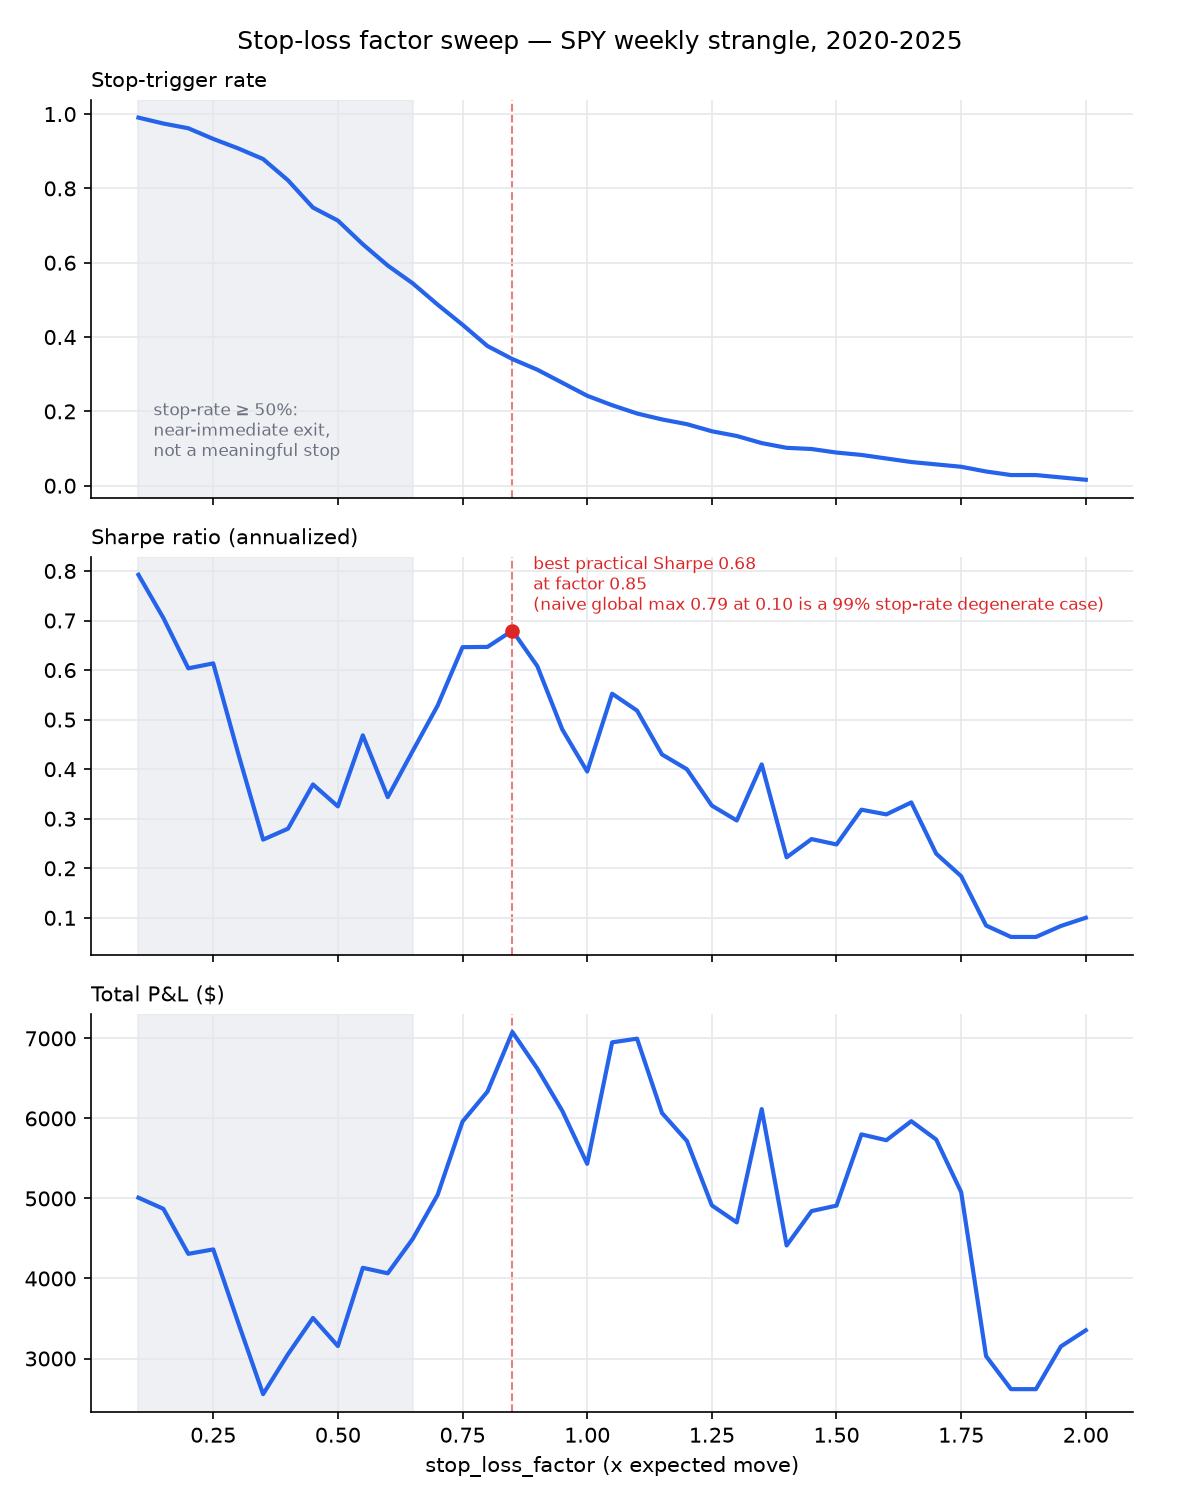
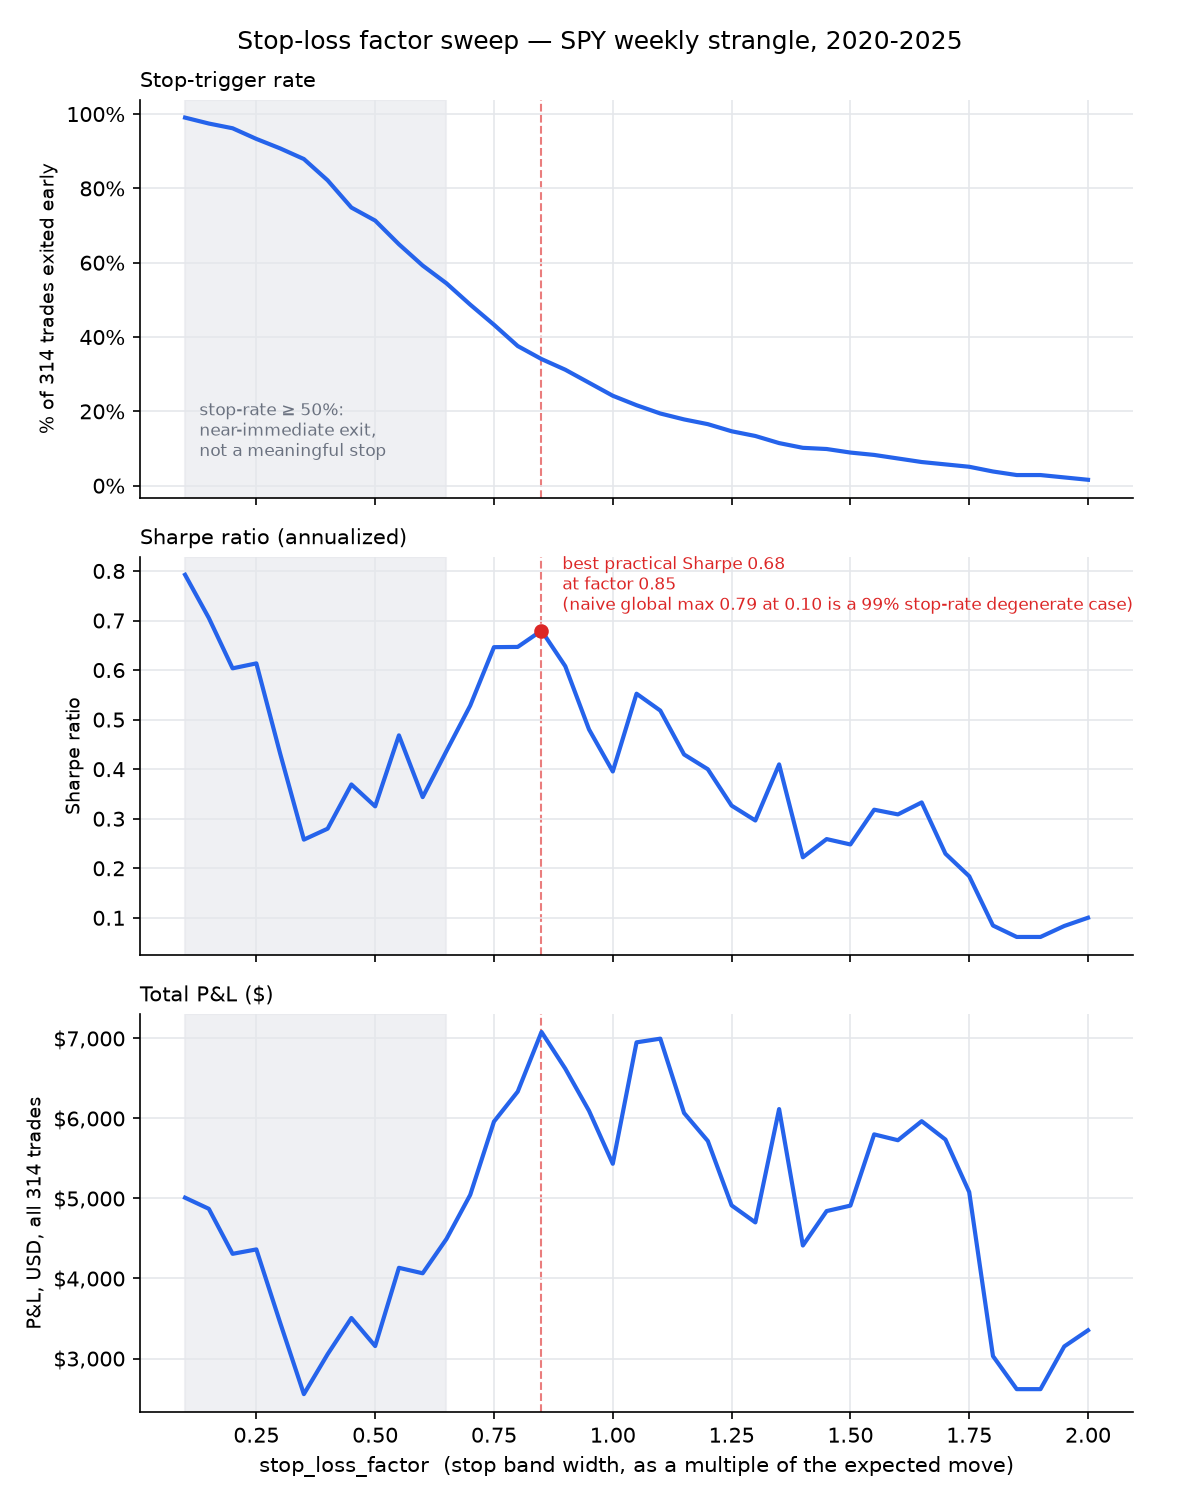
chore: label sweep plot axes clearly

diff --git a/Trading/src/sweep_stop_loss.py b/Trading/src/sweep_stop_loss.py
@@ -46,18 +46,22 @@ def plot(results, out_path):
     fig.suptitle("Stop-loss factor sweep — SPY weekly strangle, 2020-2025")
 
     panels = [
-        ("stop_rate", "Stop-trigger rate", "{:.0%}"),
-        ("sharpe_ratio", "Sharpe ratio (annualized)", "{:.2f}"),
-        ("total_pnl", "Total P&L ($)", "${:,.0f}"),
+        ("stop_rate", "Stop-trigger rate", "% of 314 trades exited early"),
+        ("sharpe_ratio", "Sharpe ratio (annualized)", "Sharpe ratio"),
+        ("total_pnl", "Total P&L ($)", "P&L, USD, all 314 trades"),
     ]
-    for ax, (col, title, fmt) in zip(axes, panels):
+    for ax, (col, title, ylabel) in zip(axes, panels):
         if degenerate_cutoff is not None:
             ax.axvspan(FACTORS.min(), degenerate_cutoff, color=GRID, alpha=0.6, zorder=0)
         ax.plot(results["stop_loss_factor"], results[col], color=ACCENT, linewidth=2, zorder=2)
         ax.axvline(best["stop_loss_factor"], color=PEAK, linewidth=1, linestyle="--", alpha=0.6, zorder=1)
         ax.set_title(title, loc="left", fontsize=10)
+        ax.set_ylabel(ylabel, fontsize=9)
         ax.grid(color=GRID, linewidth=0.8)
         ax.spines[["top", "right"]].set_visible(False)
+
+    axes[0].yaxis.set_major_formatter(lambda v, _: f"{v:.0%}")
+    axes[2].yaxis.set_major_formatter(lambda v, _: f"${v:,.0f}")
 
     axes[0].annotate(
         f"stop-rate ≥ {DEGENERATE_STOP_RATE:.0%}:\nnear-immediate exit,\nnot a meaningful stop",
@@ -76,7 +80,7 @@ def plot(results, out_path):
         fontsize=8,
         color=PEAK,
     )
-    axes[-1].set_xlabel("stop_loss_factor (x expected move)")
+    axes[-1].set_xlabel("stop_loss_factor  (stop band width, as a multiple of the expected move)")
     fig.tight_layout()
     fig.savefig(out_path, dpi=150)
     return best, naive_best
